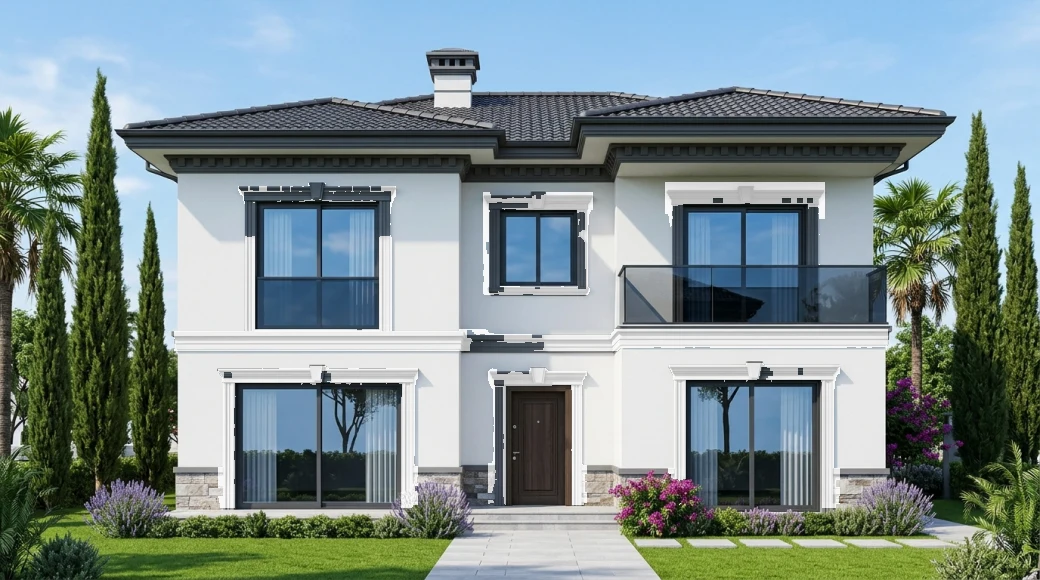
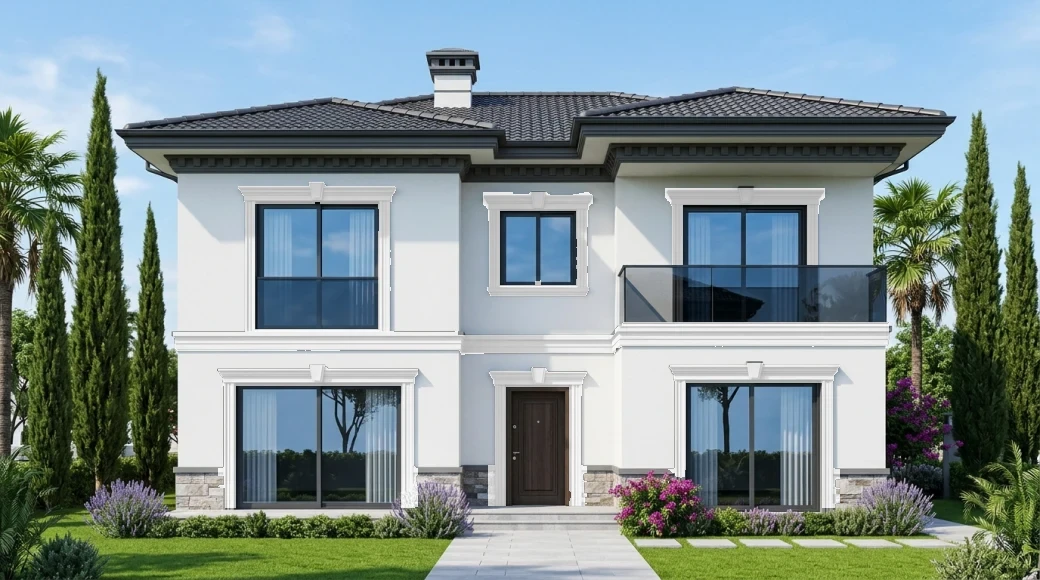
fix(simulator): refine villa sove trim mask for upper headers, stepped belt, and foliage

diff --git a/frontend/dis-cephe-renkleri.html b/frontend/dis-cephe-renkleri.html
@@ -1045,9 +1045,9 @@
           loaded: false, baseData: null, wallAlpha: null, trimAlpha: null
         },
         Villa: {
-          baseSrc: '/images/sim-villa-base.webp?v=20261123',
-          wallSrc: '/images/sim-villa-wall-mask.png?v=20261123',
-          trimSrc: '/images/sim-villa-trim-mask.png?v=20261123',
+          baseSrc: '/images/sim-villa-base.webp?v=20261123b',
+          wallSrc: '/images/sim-villa-wall-mask.png?v=20261123b',
+          trimSrc: '/images/sim-villa-trim-mask.png?v=20261123b',
           loaded: false, baseData: null, wallAlpha: null, trimAlpha: null
         }
       };
